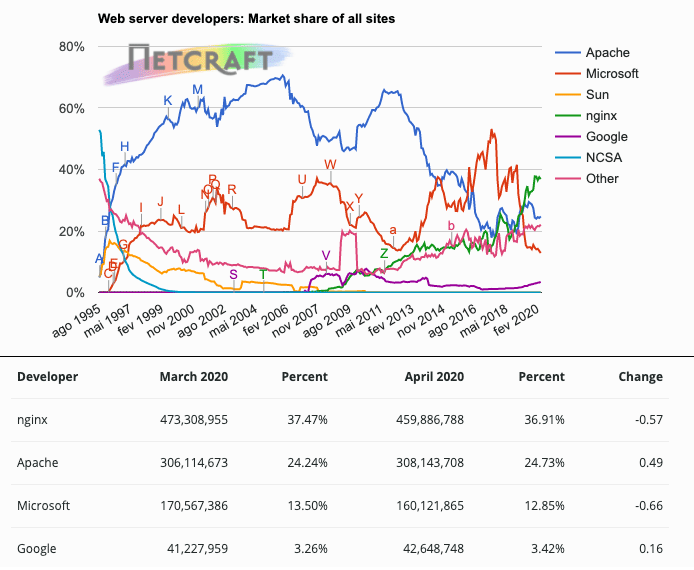
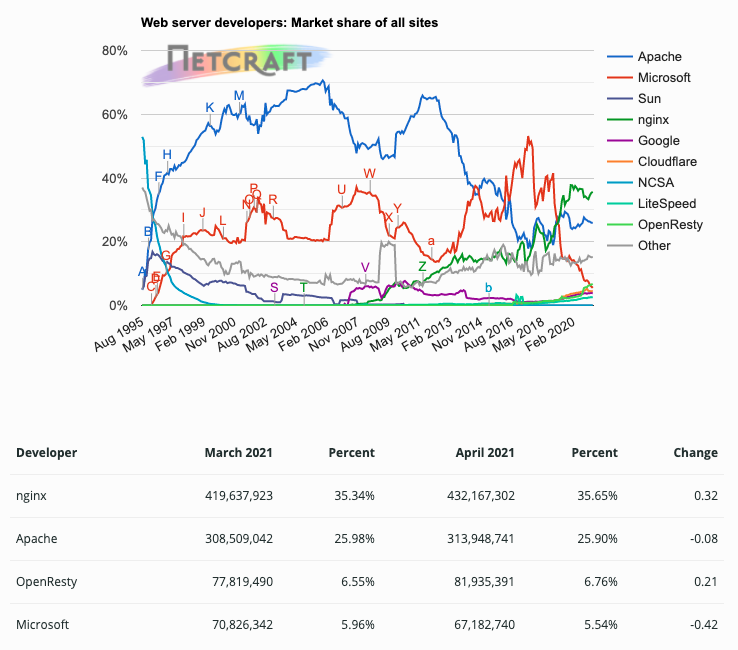
- Atualização 2021-1

diff --git a/public/index.html b/public/index.html
@@ -1,8 +1,8 @@
 <!DOCTYPE html>
-<html lang="en">
+<html lang="pt-br">
   <head>
+    <meta charset="UTF-8" />
     <title>Soluções WEB - Aula 07</title>
-    <meta http-equiv="Content-Type" content="text/html; charset=UTF-8" />
     <style type="text/css">
       @import url("https://fonts.googleapis.com/css?family=Anton|Open+Sans:400,400i,600,600i,700,700i,800,800i&subset=latin-ext");
       @import url("https://fonts.googleapis.com/css?family=Ubuntu+Mono:400,700,400italic");
@@ -110,7 +110,7 @@
 
       .pesquisa-img {
         display: inline-block;
-        width: 650px;
+        width: 598px;
       }
       .pesquisa-img img {
         width: 100%;

diff --git a/public/slides.md b/public/slides.md
@@ -55,7 +55,7 @@ Um **servidor web dinâmico** consiste em um servidor web estático com software
 
 Dois dos servidores HTTP mais populares do mercado são o **Apache HTTP Server (httpd)** e o **NGINX**.
 
-De acordo com a pesquisa 2019 da `NetCraft` o qual monitorou **mais de 1.246.121.153** websites ao longo de 2019 a maioria dos servidores hoje usam o servidor HTTP **NGINX**.
+De acordo com a pesquisa 2020 da `NetCraft` o qual monitorou **mais de 1.212.139.815** websites ao longo de 2020 a maioria dos servidores hoje usam o servidor HTTP **NGINX**.
 
 .center[.pesquisa-img[![WebServer!](./img/pesquisa.png)]]
 
@@ -255,5 +255,3 @@ ssh usuario@ip-do-servidor
 class: center, middle
 
 ## DEMO TIME 🤓
-
-.center[.gif-img[![Boooom!](./img/olokinho-meu.jpg)]]
